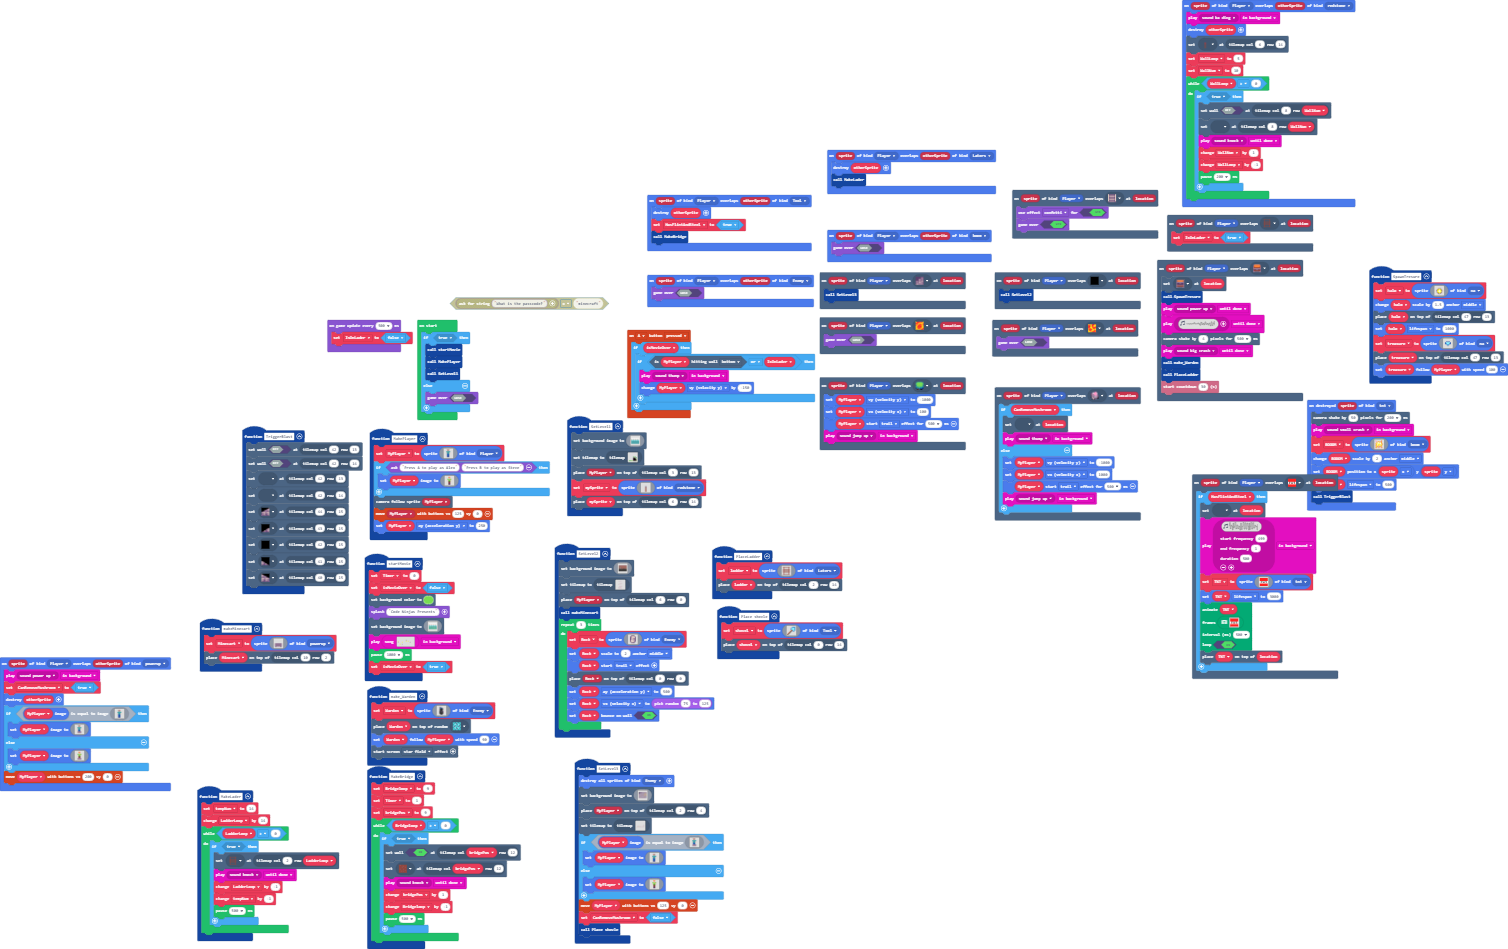
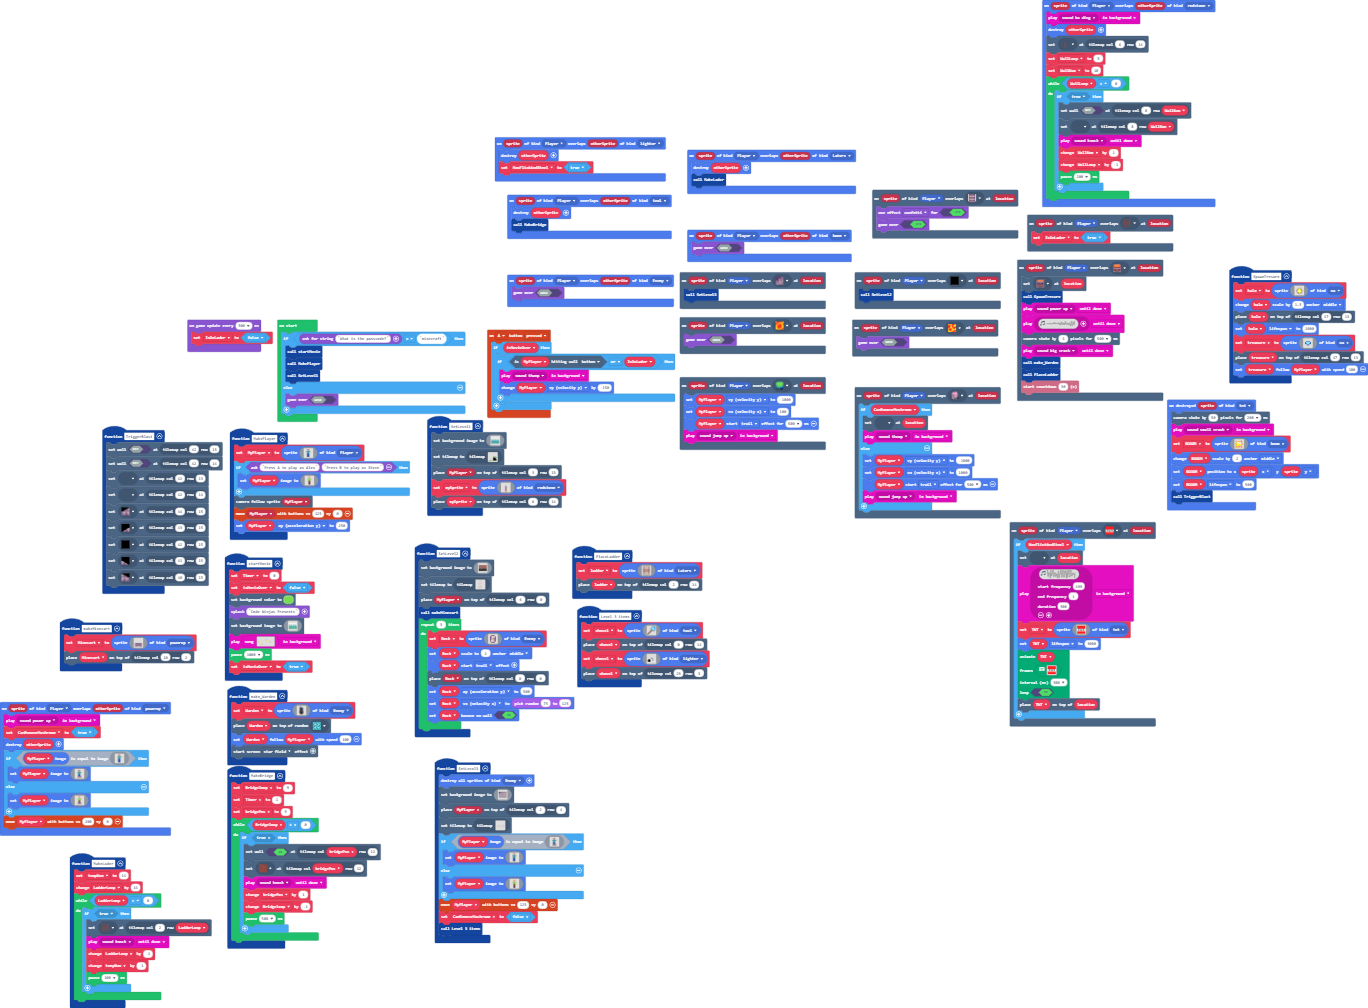
Update main.blocks, main.ts, images.g.jres, images.g.ts

diff --git a/main.ts b/main.ts
@@ -1,11 +1,12 @@
 namespace SpriteKind {
-    export const Tool = SpriteKind.create()
+    export const tool = SpriteKind.create()
     export const tnt = SpriteKind.create()
     export const boom = SpriteKind.create()
     export const Laters = SpriteKind.create()
     export const na = SpriteKind.create()
     export const redstone = SpriteKind.create()
     export const powerup = SpriteKind.create()
+    export const lighter = SpriteKind.create()
 }
 sprites.onDestroyed(SpriteKind.tnt, function (sprite) {
     scene.cameraShake(50, 200)
@@ -114,10 +115,6 @@ function SpawnTresure () {
     tiles.placeOnTile(treasure, tiles.getTileLocation(47, 13))
     treasure.follow(MyPlayer, 100)
 }
-function Place_shovle () {
-    shovel = sprites.create(assets.image`Shovle`, SpriteKind.Tool)
-    tiles.placeOnTile(shovel, tiles.getTileLocation(0, 14))
-}
 scene.onOverlapTile(SpriteKind.Player, assets.tile`myTile`, function (sprite, location) {
     if (CanRemoveMushroom) {
         tiles.setTileAt(location, assets.tile`myTile0`)
@@ -167,11 +164,6 @@ sprites.onOverlap(SpriteKind.Player, SpriteKind.Laters, function (sprite, otherS
     sprites.destroy(otherSprite)
     MakeLader()
 })
-sprites.onOverlap(SpriteKind.Player, SpriteKind.Tool, function (sprite, otherSprite) {
-    sprites.destroy(otherSprite)
-    HasFlintAndSteel = true
-    MakeBridge()
-})
 function MakeLader () {
     tempNum = 14
     LadderLoop += 14
@@ -181,7 +173,7 @@ function MakeLader () {
             music.play(music.melodyPlayable(music.knock), music.PlaybackMode.UntilDone)
             LadderLoop += -1
             tempNum += -1
-            pause(500)
+            pause(100)
         }
     }
 }
@@ -327,6 +319,10 @@ function TriggerBlast () {
     tiles.setTileAt(tiles.getTileLocation(41, 15), assets.tile`HevyBlastfloor`)
     tiles.setTileAt(tiles.getTileLocation(40, 15), assets.tile`LightBlastfloor`)
 }
+sprites.onOverlap(SpriteKind.Player, SpriteKind.lighter, function (sprite, otherSprite) {
+    sprites.destroy(otherSprite)
+    HasFlintAndSteel = true
+})
 scene.onOverlapTile(SpriteKind.Player, sprites.dungeon.chestClosed, function (sprite, location) {
     tiles.setTileAt(location, sprites.dungeon.chestOpen)
     SpawnTresure()
@@ -365,7 +361,7 @@ function SetLevel3 () {
     }
     controller.moveSprite(MyPlayer, 125, 0)
     CanRemoveMushroom = false
-    Place_shovle()
+    Level_3_items()
 }
 function PlaceLadder () {
     ladder = sprites.create(assets.image`myLader`, SpriteKind.Laters)
@@ -374,10 +370,14 @@ function PlaceLadder () {
 scene.onOverlapTile(SpriteKind.Player, sprites.dungeon.hazardLava1, function (sprite, location) {
     game.gameOver(false)
 })
+sprites.onOverlap(SpriteKind.Player, SpriteKind.tool, function (sprite, otherSprite) {
+    sprites.destroy(otherSprite)
+    MakeBridge()
+})
 function make_Warden () {
     Warden = sprites.create(assets.image`realWarden`, SpriteKind.Enemy)
     tiles.placeOnRandomTile(Warden, sprites.dungeon.collectibleInsignia)
-    Warden.follow(MyPlayer, 90)
+    Warden.follow(MyPlayer, 100)
     effects.starField.startScreenEffect()
 }
 sprites.onOverlap(SpriteKind.Player, SpriteKind.boom, function (sprite, otherSprite) {
@@ -394,6 +394,12 @@ function MakePlayer () {
     scene.cameraFollowSprite(MyPlayer)
     controller.moveSprite(MyPlayer, 125, 0)
     MyPlayer.ay = 250
+}
+function Level_3_items () {
+    shovel = sprites.create(assets.image`Shovle`, SpriteKind.tool)
+    tiles.placeOnTile(shovel, tiles.getTileLocation(0, 14))
+    shovel = sprites.create(assets.image`FlintAndSteel`, SpriteKind.lighter)
+    tiles.placeOnTile(shovel, tiles.getTileLocation(29, 3))
 }
 function makeMinecart () {
     Minecart = sprites.create(assets.image`minecart`, SpriteKind.powerup)
@@ -554,6 +560,7 @@ sprites.onOverlap(SpriteKind.Player, SpriteKind.Enemy, function (sprite, otherSp
 })
 let Rock: Sprite = null
 let Minecart: Sprite = null
+let shovel: Sprite = null
 let Warden: Sprite = null
 let ladder: Sprite = null
 let bridgePos = 0
@@ -565,7 +572,6 @@ let IsOnLader = false
 let WallNum = 0
 let WallLoop = 0
 let CanRemoveMushroom = false
-let shovel: Sprite = null
 let MyPlayer: Sprite = null
 let treasure: Sprite = null
 let halo: Sprite = null
@@ -574,7 +580,7 @@ let Timer = 0
 let TNT: Sprite = null
 let HasFlintAndSteel = false
 let BOOOM: Sprite = null
-if (true) {
+if (game.askForString("What is the passcode?") == "minecraft") {
     startMovie()
     MakePlayer()
     SetLevel1()

diff --git a/images.g.ts b/images.g.ts
@@ -711,6 +711,25 @@ dddd7eeeeee7dddd
 .bbbbbbbbbbbbbb.
 ..f..........f..
 `;
+            case "image20":
+            case "FlintAndSteel":return img`
+. . . . . . . . . . . . . . . . 
+. . . . . . . . . . . . . . . . 
+. . . . . . . . . . . . . . . . 
+. . . . . . . . . . . . . . . . 
+. . . . . . . 1 1 . . . . . . . 
+. . . . . . . c c 1 . . . . . . 
+. . . . . . . . c c 1 . . . . . 
+. . . . . . . . . c c 1 . . . . 
+. . . f . . . . . . c 1 . . . . 
+. . f f f f . . . . c 1 1 . . . 
+. f f f f f . . . . . c 1 . . . 
+. f f f f f . . . . . c . . . . 
+. . f f f f . . . . . . . . . . 
+. f f f f . . . . . . . . . . . 
+. . . . . . . . . . . . . . . . 
+. . . . . . . . . . . . . . . . 
+`;
         }
         return null;
     })
